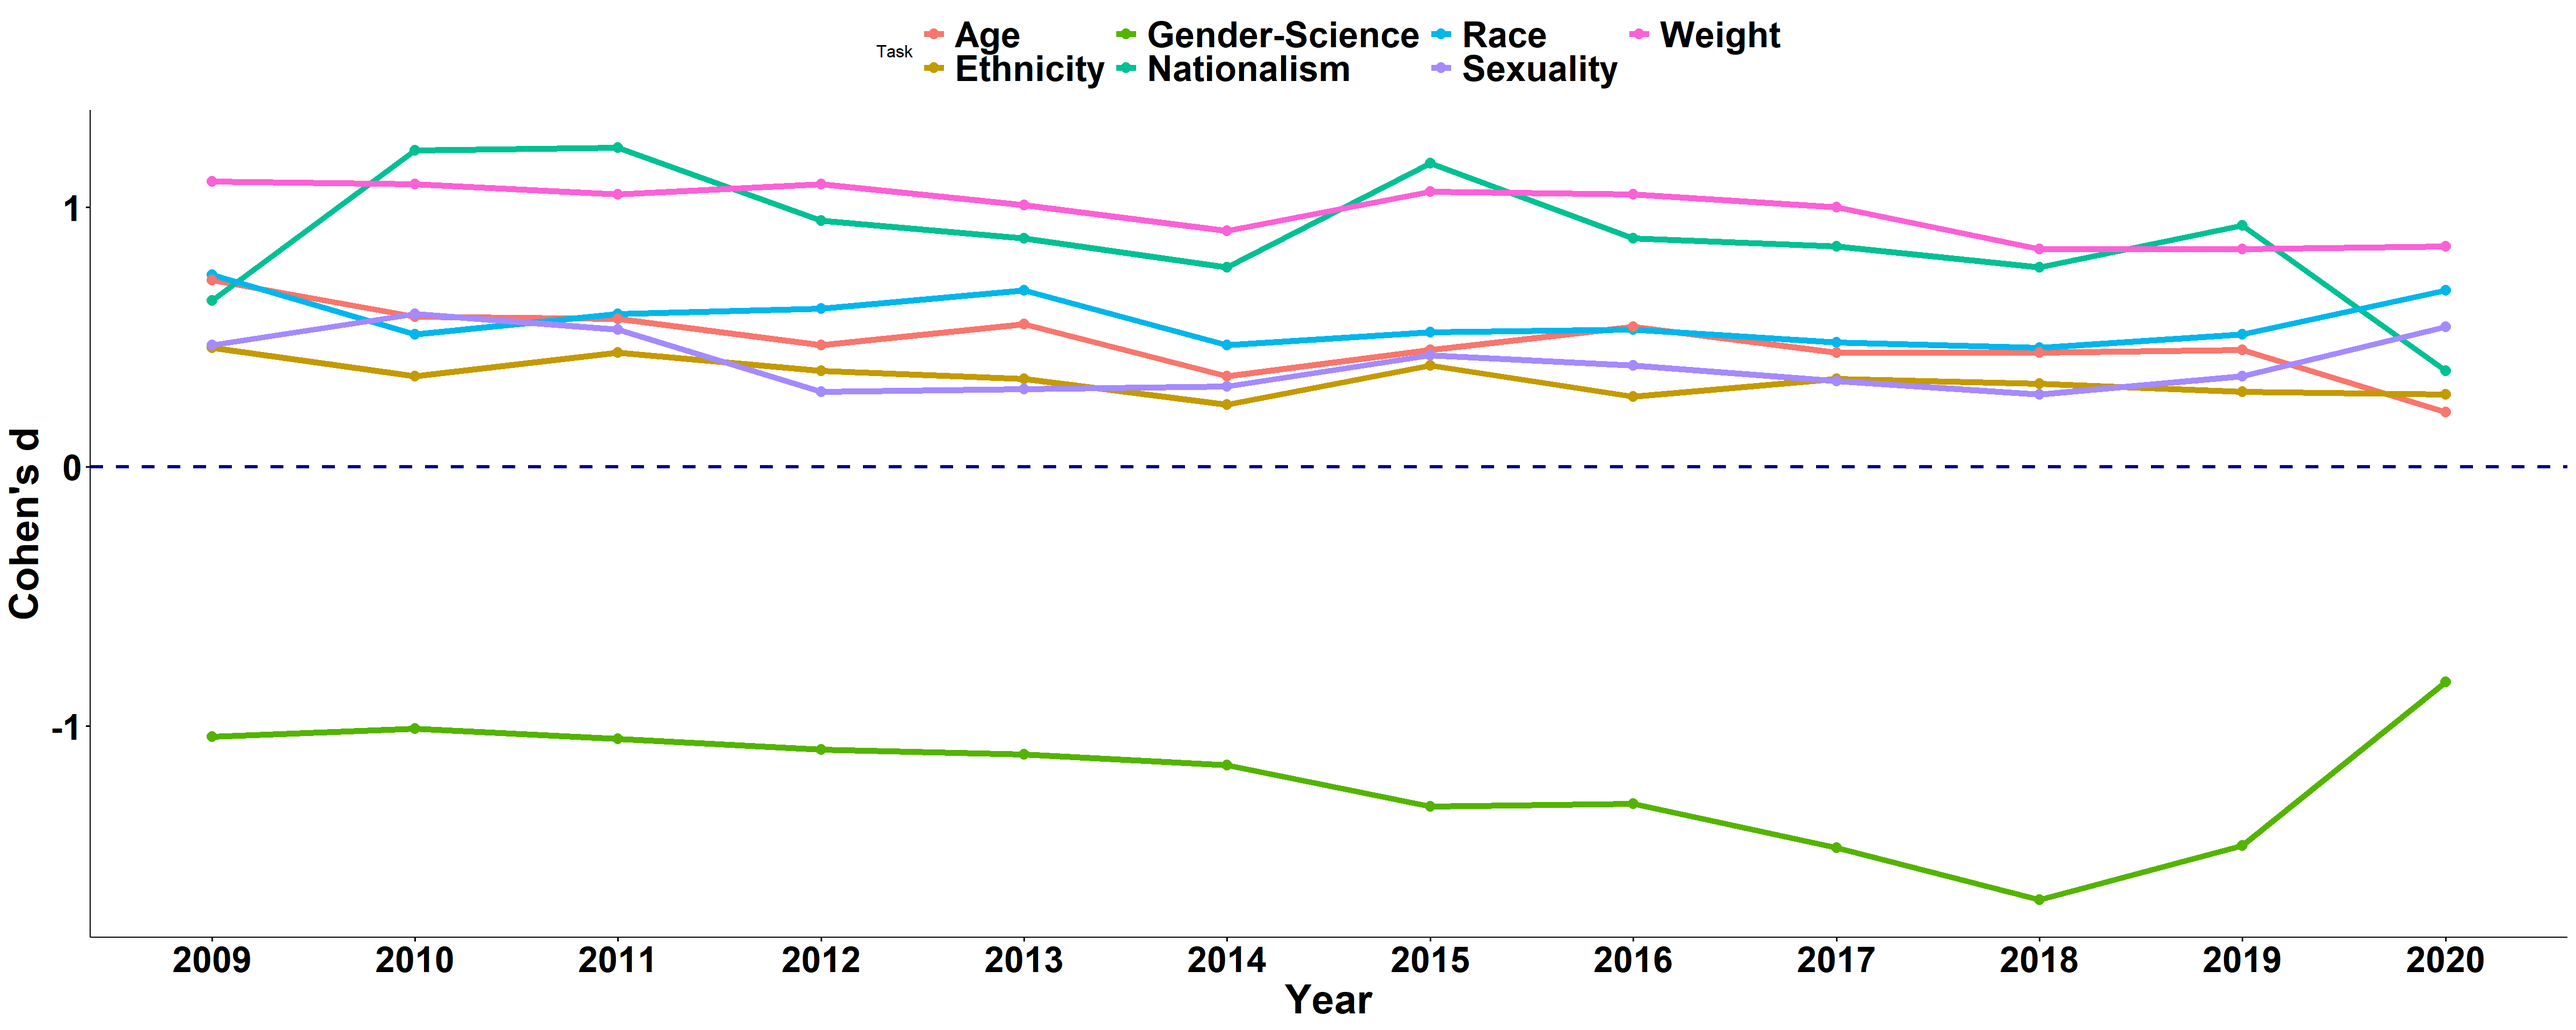
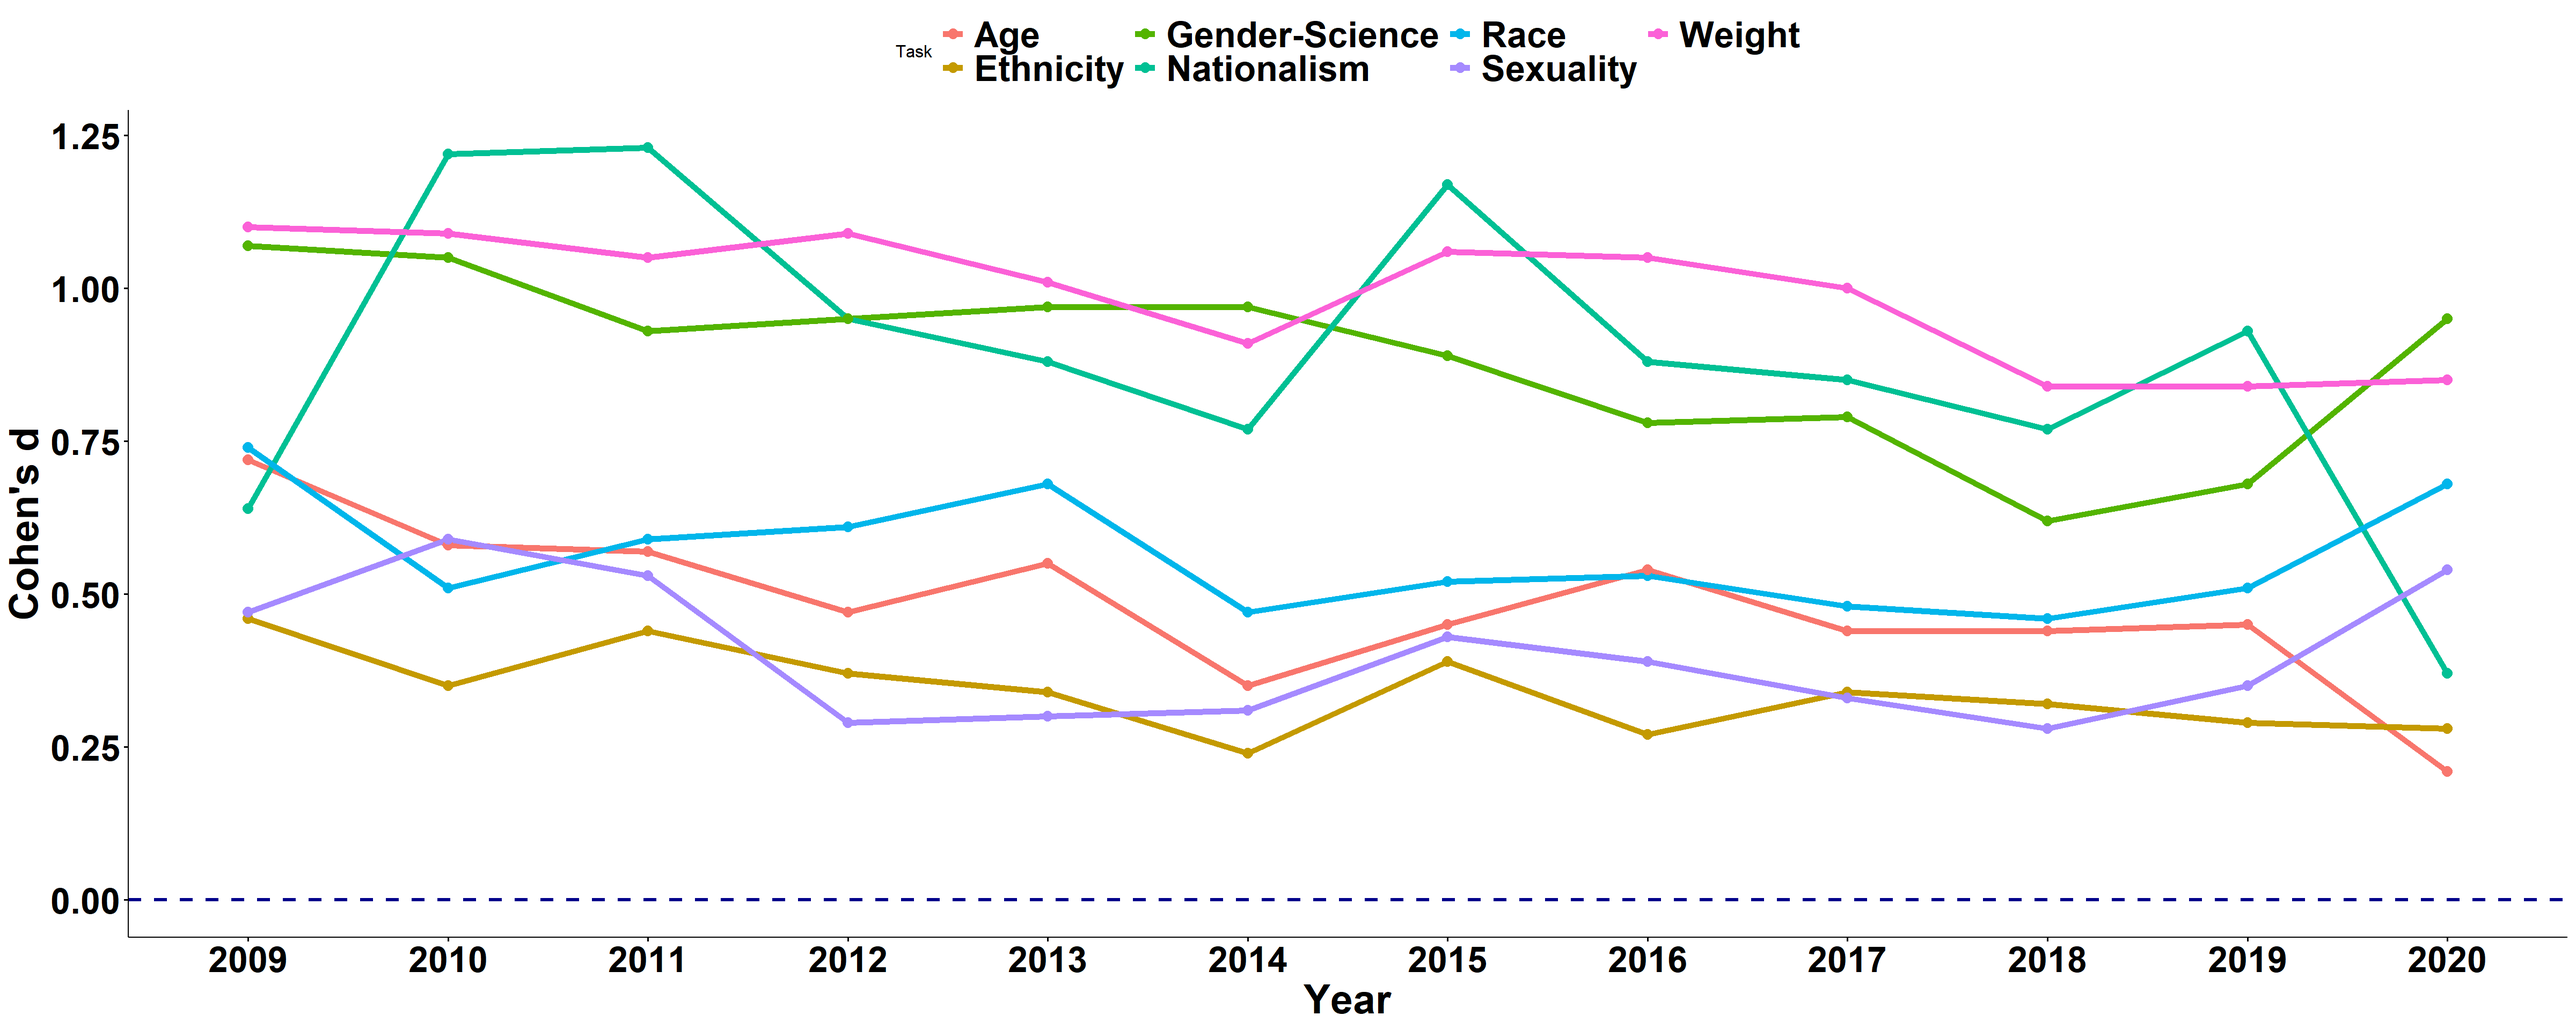
israel post: update content

diff --git a/public/post/biases-in-israel/index.html b/public/post/biases-in-israel/index.html
@@ -59,7 +59,7 @@
   "headline": "Biases in Israel",
   "description" : "Read about the implict and explicit biases in Israel",
   "inLanguage" : "en",
-  "wordCount":  3395 ,
+  "wordCount":  3401 ,
   "datePublished" : "2020-10-01T00:00:00",
   "dateModified" : "2020-10-01T00:00:00",
   "image" : "https:\/\/pi-international-blog.netlify.app\/img\/logo.png",
@@ -239,7 +239,7 @@
   
   
   
-    &nbsp;|&nbsp;<i class="fas fa-book"></i>&nbsp;3395&nbsp;words
+    &nbsp;|&nbsp;<i class="fas fa-book"></i>&nbsp;3401&nbsp;words
   
   
     
@@ -564,8 +564,10 @@ gender_science_att &lt;- gender_science %&gt;% select(session_id, att,
 weight_att &lt;- weight %&gt;% select(session_id, att, Year) %&gt;% mutate(Task = &quot;Weight&quot;)
 
 all_att &lt;- bind_rows(race_att, ethnic_att, age_att, sex_att, 
-    usa_att, weight_att, gender_science_att)
+    usa_att, weight_att)
 all_att$att_rs &lt;- all_att$att - 4
+gender_science_att$att_rs &lt;- gender_science_att$att
+all_att &lt;- bind_rows(all_att, gender_science_att)
 
 race_diff_thermo &lt;- race %&gt;% select(session_id, diff_thermo, 
     Year) %&gt;% mutate(Task = &quot;Race&quot;)

diff --git a/content/post/2020-10-01-biases-in-israel.en.html b/content/post/2020-10-01-biases-in-israel.en.html
@@ -327,8 +327,10 @@ gender_science_att &lt;- gender_science %&gt;% select(session_id, att,
 weight_att &lt;- weight %&gt;% select(session_id, att, Year) %&gt;% mutate(Task = &quot;Weight&quot;)
 
 all_att &lt;- bind_rows(race_att, ethnic_att, age_att, sex_att, 
-    usa_att, weight_att, gender_science_att)
+    usa_att, weight_att)
 all_att$att_rs &lt;- all_att$att - 4
+gender_science_att$att_rs &lt;- gender_science_att$att
+all_att &lt;- bind_rows(all_att, gender_science_att)
 
 race_diff_thermo &lt;- race %&gt;% select(session_id, diff_thermo, 
     Year) %&gt;% mutate(Task = &quot;Race&quot;)

diff --git a/public/categories/age-iat/index.html b/public/categories/age-iat/index.html
@@ -215,7 +215,7 @@
   
   
   
-    &nbsp;|&nbsp;<i class="fas fa-book"></i>&nbsp;3395&nbsp;words
+    &nbsp;|&nbsp;<i class="fas fa-book"></i>&nbsp;3401&nbsp;words
   
   
     

diff --git a/public/categories/ethnicity-iat/index.html b/public/categories/ethnicity-iat/index.html
@@ -215,7 +215,7 @@
   
   
   
-    &nbsp;|&nbsp;<i class="fas fa-book"></i>&nbsp;3395&nbsp;words
+    &nbsp;|&nbsp;<i class="fas fa-book"></i>&nbsp;3401&nbsp;words
   
   
     

diff --git a/public/categories/gender-science-iat/index.html b/public/categories/gender-science-iat/index.html
@@ -215,7 +215,7 @@
   
   
   
-    &nbsp;|&nbsp;<i class="fas fa-book"></i>&nbsp;3395&nbsp;words
+    &nbsp;|&nbsp;<i class="fas fa-book"></i>&nbsp;3401&nbsp;words
   
   
     

diff --git a/public/categories/iat/index.html b/public/categories/iat/index.html
@@ -215,7 +215,7 @@
   
   
   
-    &nbsp;|&nbsp;<i class="fas fa-book"></i>&nbsp;3395&nbsp;words
+    &nbsp;|&nbsp;<i class="fas fa-book"></i>&nbsp;3401&nbsp;words
   
   
     

diff --git a/public/categories/israel/index.html b/public/categories/israel/index.html
@@ -215,7 +215,7 @@
   
   
   
-    &nbsp;|&nbsp;<i class="fas fa-book"></i>&nbsp;3395&nbsp;words
+    &nbsp;|&nbsp;<i class="fas fa-book"></i>&nbsp;3401&nbsp;words
   
   
     

diff --git a/public/categories/nationalism-iat/index.html b/public/categories/nationalism-iat/index.html
@@ -215,7 +215,7 @@
   
   
   
-    &nbsp;|&nbsp;<i class="fas fa-book"></i>&nbsp;3395&nbsp;words
+    &nbsp;|&nbsp;<i class="fas fa-book"></i>&nbsp;3401&nbsp;words
   
   
     

diff --git a/public/categories/race-iat/index.html b/public/categories/race-iat/index.html
@@ -215,7 +215,7 @@
   
   
   
-    &nbsp;|&nbsp;<i class="fas fa-book"></i>&nbsp;3395&nbsp;words
+    &nbsp;|&nbsp;<i class="fas fa-book"></i>&nbsp;3401&nbsp;words
   
   
     

diff --git a/public/categories/sexuality-iat/index.html b/public/categories/sexuality-iat/index.html
@@ -215,7 +215,7 @@
   
   
   
-    &nbsp;|&nbsp;<i class="fas fa-book"></i>&nbsp;3395&nbsp;words
+    &nbsp;|&nbsp;<i class="fas fa-book"></i>&nbsp;3401&nbsp;words
   
   
     

diff --git a/public/categories/skin-iat/index.html b/public/categories/skin-iat/index.html
@@ -215,7 +215,7 @@
   
   
   
-    &nbsp;|&nbsp;<i class="fas fa-book"></i>&nbsp;3395&nbsp;words
+    &nbsp;|&nbsp;<i class="fas fa-book"></i>&nbsp;3401&nbsp;words
   
   
     

diff --git a/public/categories/weight-iat/index.html b/public/categories/weight-iat/index.html
@@ -215,7 +215,7 @@
   
   
   
-    &nbsp;|&nbsp;<i class="fas fa-book"></i>&nbsp;3395&nbsp;words
+    &nbsp;|&nbsp;<i class="fas fa-book"></i>&nbsp;3401&nbsp;words
   
   
     
